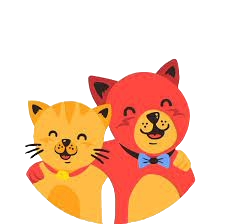
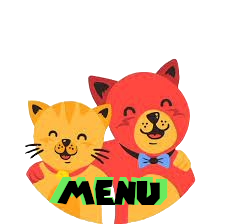
menu footer redes paginas para le sitio

Changed region(s): [[0.2178, 0.7812, 0.7467, 0.9375]]

diff --git a/css/estilo.css b/css/estilo.css
@@ -1,3 +1,10 @@
+
+header {
+    display: block;
+    
+}
+
+
 h1 {
     text-align: center;
 }
@@ -17,31 +24,7 @@ h1 {
 nav img {
     width: 100px;
     height: 100px;
-}
-
-.menu {
-    list-style: none;
-    margin: 0;
-    padding: 0;
-    text-align: center;
-
-}
-
-.menu ul li {
-    display: inline-block;
-}
-
-.menu ul li a {
-    color: black;
-    display: block;
-    text-decoration: none;
-    padding: 10px;
-    text-align: center;
-}
-
-.menu ul li a:hover {
-    background-color: rgb(221, 168, 88);
-
+    filter: drop-shadow(2px 2px 20px);
 }
 
 .carousel-item img {
@@ -66,4 +49,100 @@ footer {
 
 p {
     margin: 10%;
+}
+
+
+.logo {
+    max-width: 5rem;
+}
+
+.nav-list {
+    list-style-type: none;
+    display: flex;
+    gap: 2rem;
+   
+
+    
+}
+
+
+
+.nav-list li a {
+    text-decoration: none;
+    color: #1c1c1c;
+   
+}
+
+.abrir-menu,
+.cerrar-menu {
+    display: none;
+}
+
+@media screen and (max-width: 550px) {
+    .abrir-menu,
+    .cerrar-menu {
+        display: block;
+        border: 0;
+        font-size: 1.25rem;
+        background-color: transparent;
+        cursor: pointer;
+    }
+
+    .abrir-menu {
+        color: #1c1c1c;
+    }
+
+    .cerrar-menu {
+        color: #ececec;
+    }
+
+    .nav {
+        opacity: 0;
+        visibility: hidden;
+        display: flex;
+        flex-direction: column;
+        align-items: end;
+        gap: 1rem;
+        position: absolute;
+        top: 0;
+        right: 0;
+        bottom: 0;
+        background-color: #1c1c1c;
+        padding: 2rem;
+        box-shadow: 0 0 0 100vmax rgba(0, 0, 0, .5);
+        z-index: 88888;
+    }
+
+    .nav.visible {
+        opacity: 1;
+        visibility: visible;
+       
+    }
+    
+    .nav-list {
+        flex-direction: column;
+        align-items: end;
+    }
+
+    .nav-list li a {
+        color: #ecececec;
+    }
+}
+
+ul li img {
+    height: 25px;
+    width: 25px;
+    z-index: 99999;
+}
+
+.redes {
+    display: flex;
+    gap: 10%;
+    text-decoration: none;
+    list-style: none;
+    justify-content: center;
+    align-items: center;
+    filter: drop-shadow(1px 1px 10px rgb(245, 152, 13));
+
+
 }

diff --git a/index.html b/index.html
@@ -22,14 +22,17 @@
     </header>
         <!-- ---NAV--------------- -->
         <nav>
-            <!-- <img src="./img/menu.png" alt="juntos"> -->
-            <div class="menu">
-                <ul>
-                    <li><a href="">Gatos</a></li>
-                    <li><a href="">Perros</a></li>
-                    <li><a href="">Contacto</a></li>
-                    <li><a href="">Acerca de Nosotros</a></li>
-                </ul>          
+            
+            <button id="abrir" class="abrir-menu"><img class="logo" src="./img/menu.png" alt="juntos" title="logo"></button>
+            <div class="nav" id="nav">
+              <button class="cerrar-menu" id="cerrar"><img class="logo" src="./img/menu.png" alt="juntos" title="logo"></button>
+              <ul class="nav-list">
+                <li><a href="./sitio/gatos.html">Gatos</a></li>
+                <li><a href="./sitio/perros.html">Perros</a></li>
+                <li><a href="./sitio/contacto.html">Contacto</a></li>
+                <li><a href="./sitio/AcerdaDe.html">Acerca de Nosotros</a></li>
+                
+              </ul>                    
             </div>
         </nav>
         <!-- ---------------Fin Nav--------------------- -->
@@ -75,8 +78,15 @@
         <footer>
             <div>
                 <p>Derechos Reservados Grupo 1 Proyecto Grupal</p>
+                <ul class="redes">
+                  <li><a href="#"><img src="./favicon/instagram.svg" alt=""></a></li>
+                  <li><a href="#"><img src="./favicon/facebook.svg" alt=""></a></li>
+                  <li><a href="#"><img src="./favicon/x.svg" alt=""></a></li>
+                </ul>
+                
             </div>
         </footer>
+        <script src="./js/menu.js"></script>
         <script src="https://cdn.jsdelivr.net/npm/bootstrap@5.0.2/dist/js/bootstrap.bundle.min.js" integrity="sha384-MrcW6ZMFYlzcLA8Nl+NtUVF0sA7MsXsP1UyJoMp4YLEuNSfAP+JcXn/tWtIaxVXM" crossorigin="anonymous"></script>
     
 </body>

diff --git a/js/menu.js b/js/menu.js
@@ -1,0 +1,11 @@
+const nav = document.querySelector("#nav");
+const abrir = document.querySelector("#abrir");
+const cerrar = document.querySelector("#cerrar");
+
+abrir.addEventListener("click", () => {
+    nav.classList.add("visible");
+})
+
+cerrar.addEventListener("click", () => {
+    nav.classList.remove("visible");
+})

diff --git a/sitio/AcerdaDe.html b/sitio/AcerdaDe.html
@@ -1,0 +1,11 @@
+<!DOCTYPE html>
+<html lang="en">
+<head>
+    <meta charset="UTF-8">
+    <meta name="viewport" content="width=device-width, initial-scale=1.0">
+    <title>Acerda De Nosotros</title>
+</head>
+<body>
+    
+</body>
+</html>

diff --git a/sitio/contacto.html b/sitio/contacto.html
@@ -1,0 +1,11 @@
+<!DOCTYPE html>
+<html lang="en">
+<head>
+    <meta charset="UTF-8">
+    <meta name="viewport" content="width=device-width, initial-scale=1.0">
+    <title>Contacto</title>
+</head>
+<body>
+    
+</body>
+</html>

diff --git a/sitio/perros.html b/sitio/perros.html
@@ -1,0 +1,11 @@
+<!DOCTYPE html>
+<html lang="en">
+<head>
+    <meta charset="UTF-8">
+    <meta name="viewport" content="width=device-width, initial-scale=1.0">
+    <title>perros</title>
+</head>
+<body>
+    
+</body>
+</html>

diff --git a/sitio/gatos.html b/sitio/gatos.html
@@ -1,0 +1,11 @@
+<!DOCTYPE html>
+<html lang="en">
+<head>
+    <meta charset="UTF-8">
+    <meta name="viewport" content="width=device-width, initial-scale=1.0">
+    <title>gatps</title>
+</head>
+<body>
+    
+</body>
+</html>
